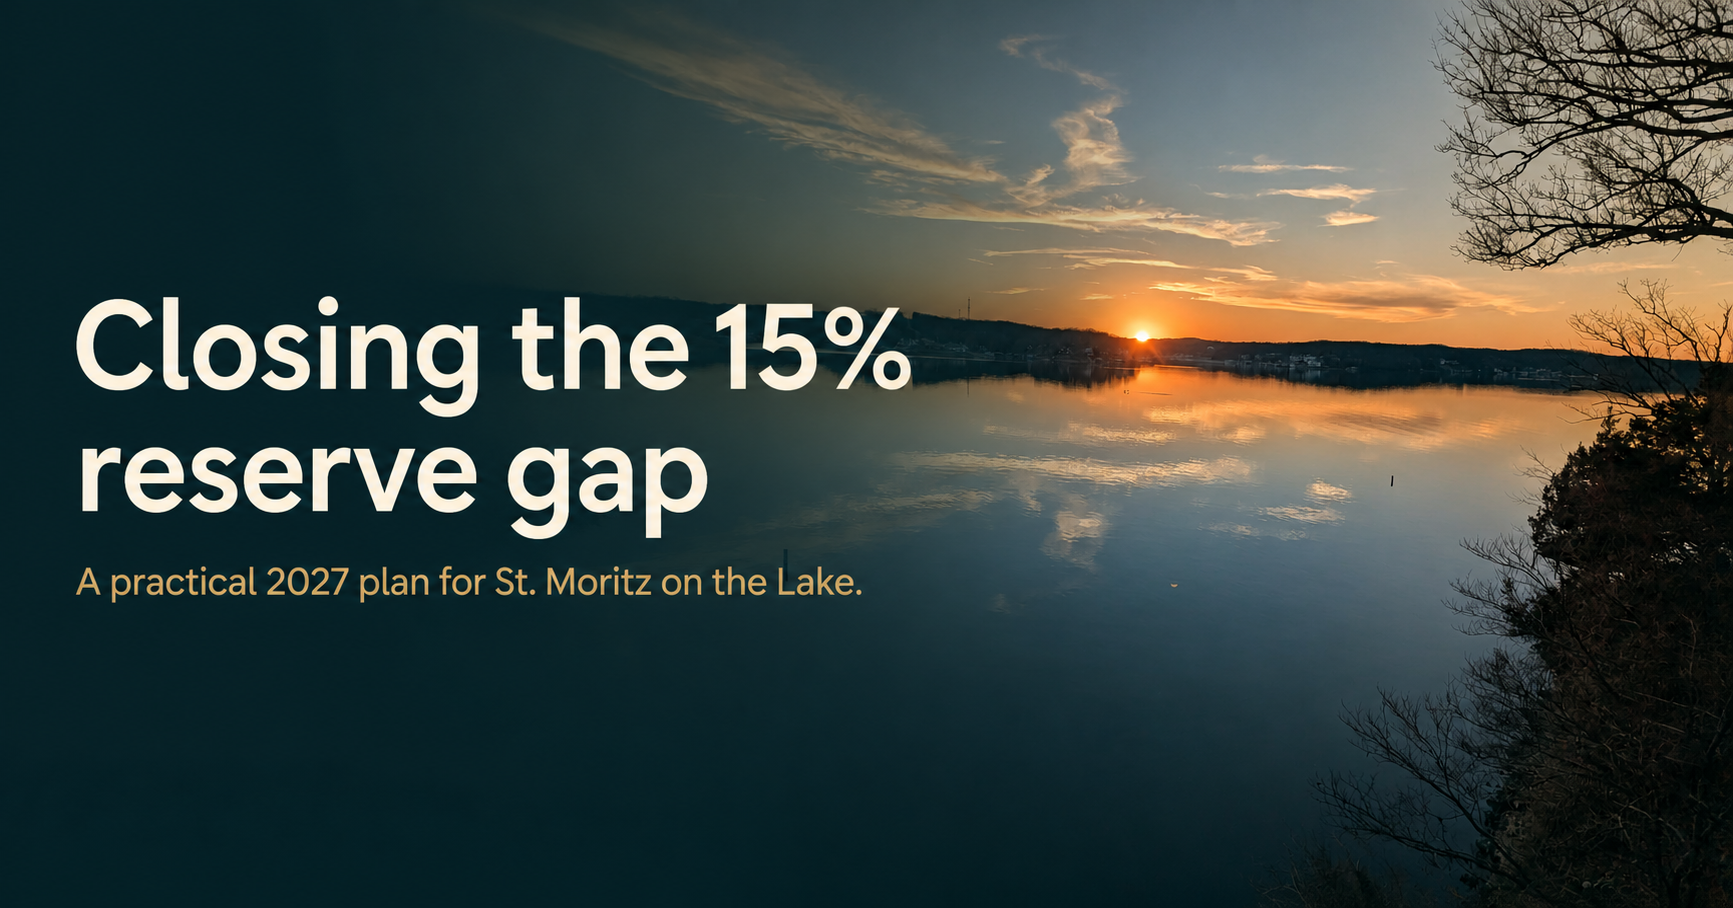
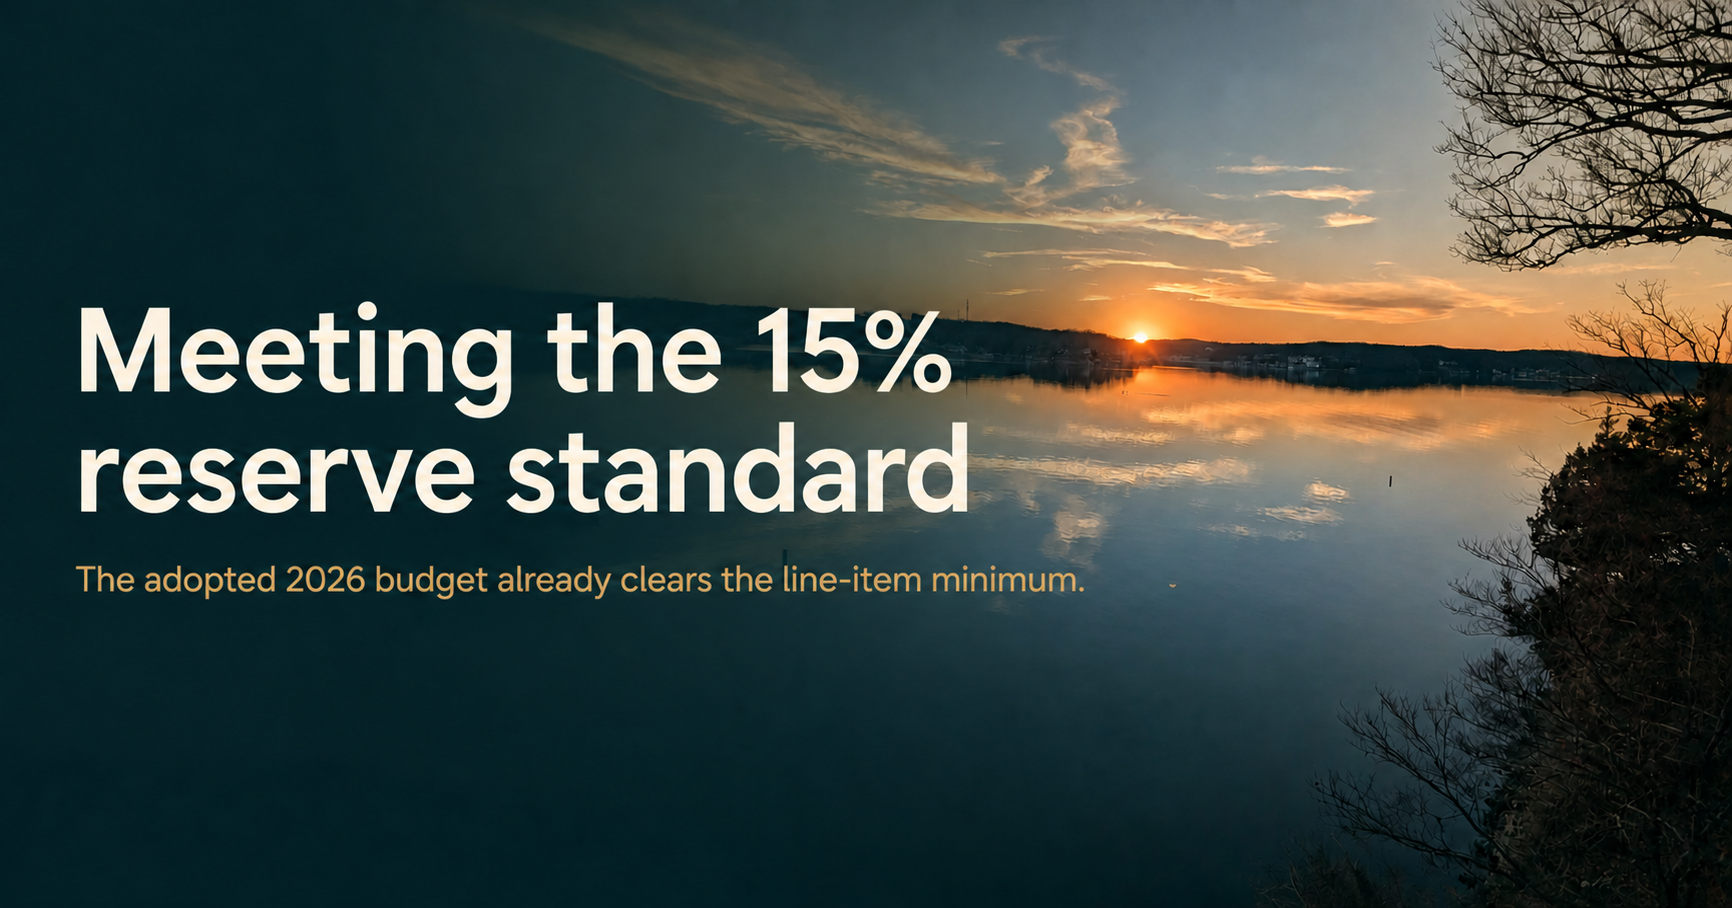
fix: publish verified reserve compliance math

diff --git a/app/page.tsx b/app/page.tsx
@@ -20,7 +20,7 @@ export default function Home() {
     <main>
       <header className="site-header">
         <a className="brand" href="#overview" aria-label="Reserve funding overview">
-          <span className="brand-mark" aria-hidden="true">15</span>
+          <span className="brand-mark" aria-hidden="true">15%</span>
           <span>
             <strong>Reserve Health Guide</strong>
             <small>St. Moritz on the Lake</small>
@@ -54,8 +54,8 @@ export default function Home() {
             <p className="eyebrow">2027 reserve funding</p>
             <h1>The <em>15%</em> decision, made simple.</h1>
             <p className="hero-intro">
-              Meeting the new standard means increasing our annual reserve allocation
-              by {money(3122)}.
+              The 2026 adopted budget is already above 15%, allocating 16.06% to
+              reserves. No dues increase is needed solely to meet the standard.
             </p>
             <div className="hero-tags" aria-label="Key reserve facts">
               <span>Effective January 4, 2027</span>
@@ -64,20 +64,20 @@ export default function Home() {
           </div>
 
           <aside className="hero-card" aria-label="Quarterly owner impact">
-            <p>Estimated owner increase</p>
-            <strong>{money(12.8, 2)}</strong>
-            <span>more per quarter</span>
+            <p>Additional owner increase</p>
+            <strong>{money(0, 2)}</strong>
+            <span>per quarter</span>
 
             <div className="meter-row">
-              <div className="meter" aria-label="Current allocation is 14 percent toward a 15 percent requirement">
-                <span>14.00%</span>
+              <div className="meter" aria-label="Current allocation is 16.06 percent, above the 15 percent requirement">
+                <span>16.06%</span>
               </div>
               <div>
                 <small>Current allocation</small>
                 <b>Target: 15.00%</b>
               </div>
             </div>
-            <small className="hero-card-note">Equal-share estimate across 61 owners.</small>
+            <small className="hero-card-note">Based on the adopted 2026 budget and permitted exclusions.</small>
           </aside>
         </div>
 
@@ -95,11 +95,11 @@ export default function Home() {
           <span className="decision-arrow" aria-hidden="true">→</span>
           <div>
             <small>15% annual requirement</small>
-            <strong>{money(47058)}</strong>
+            <strong>{money(41023.8, 2)}</strong>
           </div>
           <div className="decision-gap">
-            <small>Annual gap</small>
-            <strong>{money(3122)}</strong>
+            <small>Amount above 15%</small>
+            <strong>{money(2912.2, 2)}</strong>
           </div>
         </div>
       </section>
@@ -108,47 +108,51 @@ export default function Home() {
         <div className="section-heading">
           <div>
             <p className="eyebrow dark">What it costs</p>
-            <h2>{money(12.8, 2)} more per owner per quarter.</h2>
+            <h2>{money(0, 2)} additional per owner per quarter.</h2>
           </div>
           <p>
-            That is the estimated equal-share increase needed to close the current
-            reserve-allocation gap and reach 15%.
+            The current reserve allocation already exceeds the 15% line-item minimum,
+            so no new owner charge is needed for this requirement.
           </p>
         </div>
 
         <div className="scenario-output fixed-answer">
           <div className="scenario-summary">
             <p className="result-kicker">The owner impact</p>
-            <strong className="result-gap">{money(12.8, 2)}</strong>
-            <p className="result-label">more per owner each quarter</p>
+            <strong className="result-gap">{money(0, 2)}</strong>
+            <p className="result-label">additional per owner per quarter</p>
             <div className="result-pill">
-              <span>{money(51.18, 2)} per year</span>
-              <span>61-owner equal-share estimate</span>
+              <span>Current funding already clears 15%</span>
+              <span>No equal-share assumption needed</span>
             </div>
           </div>
 
           <div className="math-card" aria-label="15 percent reserve calculation">
             <div>
-              <span>Eligible assessment income</span>
-              <b>{money(313720)}</b>
+              <span>Regular HOA + COA assessments</span>
+              <b>{money(194150)}</b>
             </div>
-            <div className="math-symbol">× 15%</div>
             <div>
-              <span>Required annual allocation</span>
-              <b>{money(47058)}</b>
+              <span>+ Insurance assessments</span>
+              <b>{money(79342)}</b>
             </div>
-            <div className="math-symbol">− {money(43936)}</div>
+            <div>
+              <span>Eligible assessment income</span>
+              <b>{money(273492)}</b>
+            </div>
+            <div className="math-symbol">× 15% = {money(41023.8, 2)}</div>
+            <div className="math-symbol">Current reserves: {money(43936)}</div>
             <div className="math-total">
-              <span>Annual gap to close</span>
-              <b>{money(3122)}</b>
+              <span>Amount above the minimum</span>
+              <b>{money(2912.2, 2)}</b>
             </div>
           </div>
         </div>
 
         <p className="calculation-note">
-          Cable pass-through charges and sewer special-assessment income are excluded
-          from the settled {money(313720)} calculation. Actual owner billing may vary if
-          the association does not divide the increase equally.
+          Cable ({money(47953)}), sewer ({money(62488)}), special-assessment income,
+          reserve-account income, and incidental income are excluded as permitted.
+          Insurance assessments remain included as operating-assessment income.
         </p>
       </section>
 
@@ -160,15 +164,15 @@ export default function Home() {
             fill
             sizes="(max-width: 760px) 100vw, 52vw"
           />
-          <p>A small quarterly increase closes the current budget gap.</p>
+          <p>The current budget clears the 15% line-item threshold.</p>
         </div>
 
         <div className="evidence-copy">
           <p className="eyebrow dark">If we stay below 15%</p>
           <h2 id="risk-title">The risk is financing friction.</h2>
           <p className="evidence-intro">
-            For applicable Full Review loan applications dated January 4, 2027 or
-            later, an underfunded budget can make a unit harder to finance.
+            If a future budget falls below 15%, applicable Full Review loan applications
+            dated January 4, 2027 or later can face additional financing hurdles.
           </p>
 
           <div className="evidence-list risk-list">
@@ -208,17 +212,17 @@ export default function Home() {
           <div className="recommendation simple-recommendation">
             <div className="recommendation-copy">
               <p className="eyebrow">The straightforward choice</p>
-              <h2>Fund the full <em>{money(47058)}</em>.</h2>
+              <h2>Maintain the full <em>{money(43936)}</em>.</h2>
               <p>
-                Increasing the annual reserve allocation by {money(3122)} reaches the
-                15% standard using the current eligible assessment income.
+                The existing annual allocation equals 16.06% of eligible assessment
+                income and provides a {money(2912.2, 2)} cushion above the minimum.
               </p>
             </div>
             <div className="recommendation-number">
-              <span>Estimated quarterly increase</span>
-              <strong>{money(12.8, 2)}</strong>
+              <span>Additional quarterly increase</span>
+              <strong>{money(0, 2)}</strong>
               <b>per owner</b>
-              <small>Equal-share estimate across 61 owners.</small>
+              <small>Required solely for the 15% standard.</small>
             </div>
           </div>
         </div>
@@ -231,10 +235,10 @@ export default function Home() {
             <span>2027 budget direction</span>
           </div>
           <blockquote>
-            Adopt a 2027 budget that allocates at least
-            <strong> {money(47058)} to replacement reserves.</strong> This closes the
-            {` ${money(3122)} `}annual gap—approximately {money(12.8, 2)} more per
-            owner per quarter if divided equally.
+            Maintain at least 15% of eligible assessment income for replacement
+            reserves, show the calculation in the annual budget, and recalculate it
+            each year. The current {money(43936)} allocation satisfies the standard
+            using the adopted 2026 budget.
           </blockquote>
         </div>
       </section>
@@ -245,8 +249,9 @@ export default function Home() {
             <strong>Reserve Health Guide</strong>
             <p>
               Planning estimates based on the 2026 adopted budget and June 30, 2026
-              financial report. Final eligibility determinations belong to the reviewing
-              lender.
+              financial report. This measures the agency budget line-item requirement,
+              not long-term reserve adequacy. Final eligibility determinations belong
+              to the reviewing lender.
             </p>
           </div>
           <div className="source-links">

diff --git a/app/layout.tsx b/app/layout.tsx
@@ -11,10 +11,10 @@ export const metadata: Metadata = {
   metadataBase: new URL("https://smol-reserve-readiness.jeff-r-winters.chatgpt.site"),
   title: "Reserve Health Guide | St. Moritz on the Lake",
   description:
-    "An association member guide to current reserve funding, the 2027 agency requirement, and the plan for closing the gap.",
+    "An association member guide to current reserve funding and the 2027 agency requirement.",
   openGraph: {
-    title: "Closing the 15% reserve gap",
-    description: "A clear guide to reserve health and the practical 2027 funding plan.",
+    title: "Meeting the 15% reserve standard",
+    description: "The adopted 2026 budget is already above the 15% line-item minimum.",
     url: "https://smol-reserve-readiness.jeff-r-winters.chatgpt.site",
     siteName: "St. Moritz Reserve Health Guide",
     type: "website",
@@ -23,14 +23,14 @@ export const metadata: Metadata = {
         url: "/og.png",
         width: 1733,
         height: 908,
-        alt: "Sunset over the lake with the title Closing the 15% reserve gap",
+        alt: "Sunset over the lake with the title Meeting the 15% reserve standard",
       },
     ],
   },
   twitter: {
     card: "summary_large_image",
-    title: "Closing the 15% reserve gap",
-    description: "A clear guide to reserve health and the practical 2027 funding plan.",
+    title: "Meeting the 15% reserve standard",
+    description: "The adopted 2026 budget is already above the 15% line-item minimum.",
     images: ["/og.png"],
   },
   icons: {
